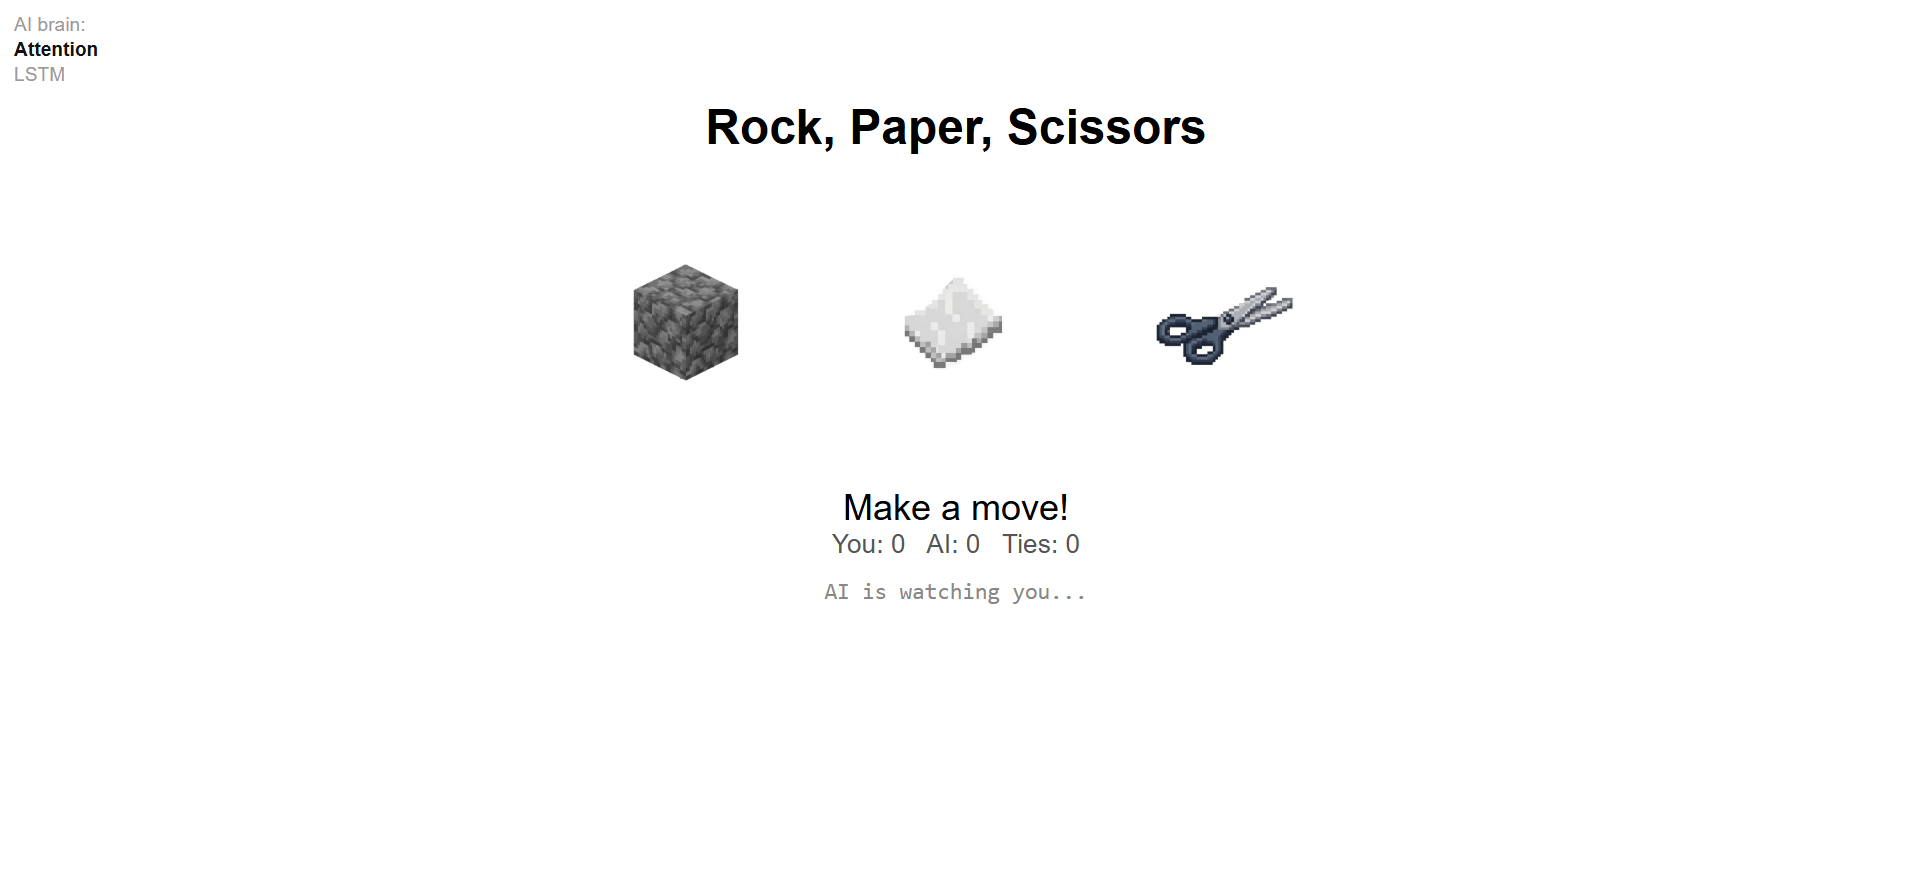
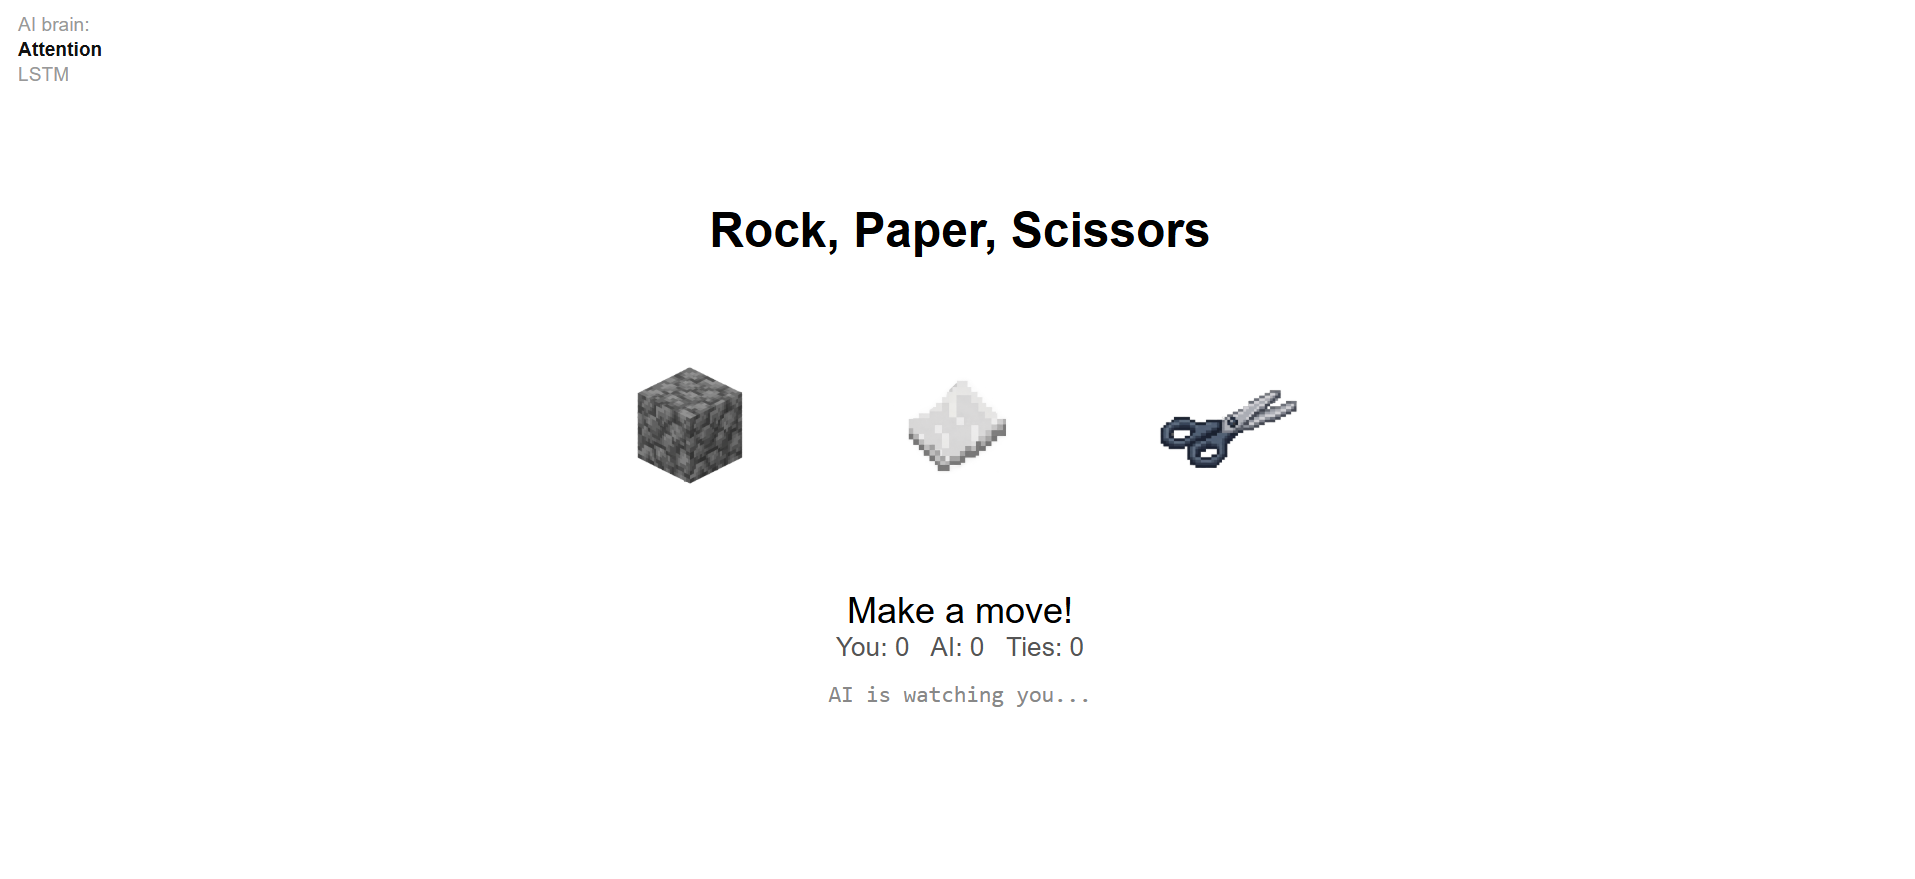
Make the game layout work on phones and move images into img/
Adds a viewport tag, centres the game vertically and horizontally, scales the move images to the screen width, and disables sticky hover and double-tap zoom on touch devices. Move images now live in img/ and the README screenshot is updated.

diff --git a/index.html b/index.html
@@ -2,10 +2,17 @@
 <html>
 <head>
   <meta charset="utf-8">
+  <meta name="viewport" content="width=device-width, initial-scale=1">
   <title>RPS vs AI</title>
   <script src="https://cdn.jsdelivr.net/npm/@tensorflow/tfjs@latest"></script>
   <style>
-    body { font-family: sans-serif; text-align: center; padding: 40px; }
+    /* Everything (except the AI brain list) sits in one column, centred on the screen. */
+    body {
+      font-family: sans-serif; text-align: center;
+      margin: 0; padding: 40px; box-sizing: border-box;
+      min-height: 100vh; min-height: 100dvh;  /* dvh = the visible height on phones, excluding browser bars */
+      display: flex; flex-direction: column; justify-content: center; align-items: center;
+    }
     .moves {
       display: flex;
       justify-content: center;
@@ -20,14 +27,17 @@
       padding: 0;
       transition: transform 0.25s ease, filter 0.25s ease;
     }
-    button:hover {
-      transform: translateY(-8px) scale(1.05);
+    button { touch-action: manipulation; -webkit-tap-highlight-color: transparent; }
+    /* Hover lift only on devices with a real mouse; on phones it would stick after a tap. */
+    @media (hover: hover) {
+      button:hover { transform: translateY(-8px) scale(1.05); }
     }
     button.selected {
       transform: translateY(-25px) scale(1.2) rotateX(10deg);
       filter: drop-shadow(0 20px 12px rgba(0, 0, 0, 0.35));
     }
-    button img { width: 160px; height: 160px; object-fit: contain; display: block; }
+    /* 160px on a desktop, shrinking to fit three in a row on a narrow phone. */
+    button img { width: min(160px, 26vw); height: min(160px, 26vw); object-fit: contain; display: block; }
     #result { font-size: 1.5rem; margin-top: 20px; }
     #score { font-size: 1.1rem; color: #555; }
     #brain { font-size: 0.95rem; color: #888; margin-top: 12px; font-family: monospace; }
@@ -40,6 +50,15 @@
     .model-switch label { cursor: pointer; }
     .model-switch label:hover { color: #555; }
     .model-switch input:checked + label { color: #111; font-weight: bold; }
+
+    @media (max-width: 600px) {
+      body { padding: 72px 16px 16px; }  /* top padding leaves room for the AI brain list */
+      h1 { font-size: 1.6rem; }
+      button { margin: 6px; }
+      button.selected { transform: translateY(-12px) scale(1.12); }
+      #result { font-size: 1.2rem; }
+      #brain { font-size: 0.8rem; }
+    }
   </style>
 </head>
 <body>
@@ -52,9 +71,9 @@
     <label for="use-lstm">LSTM</label>
   </div>
   <div class="moves">
-    <button data-move="rock"><img src="rock_transparent.png" alt="Rock"></button>
-    <button data-move="paper"><img src="paper_transparent.png" alt="Paper"></button>
-    <button data-move="scissors"><img src="scissors_transparent.png" alt="Scissors"></button>
+    <button data-move="rock"><img src="img/rock_transparent.png" alt="Rock"></button>
+    <button data-move="paper"><img src="img/paper_transparent.png" alt="Paper"></button>
+    <button data-move="scissors"><img src="img/scissors_transparent.png" alt="Scissors"></button>
   </div>
 
   <div id="result">Make a move!</div>
